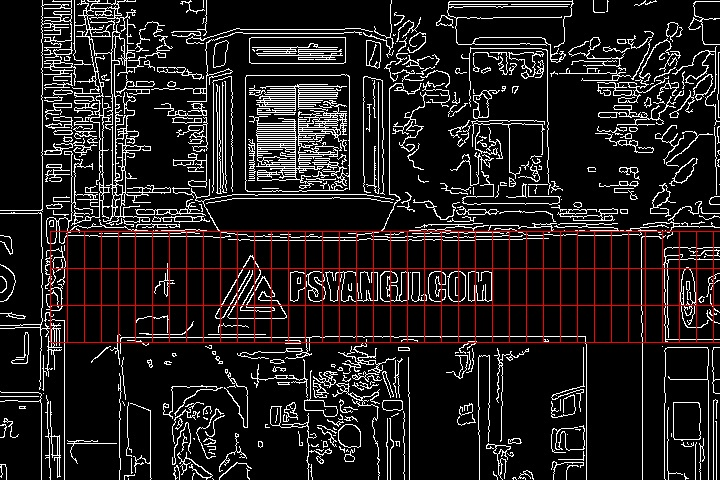
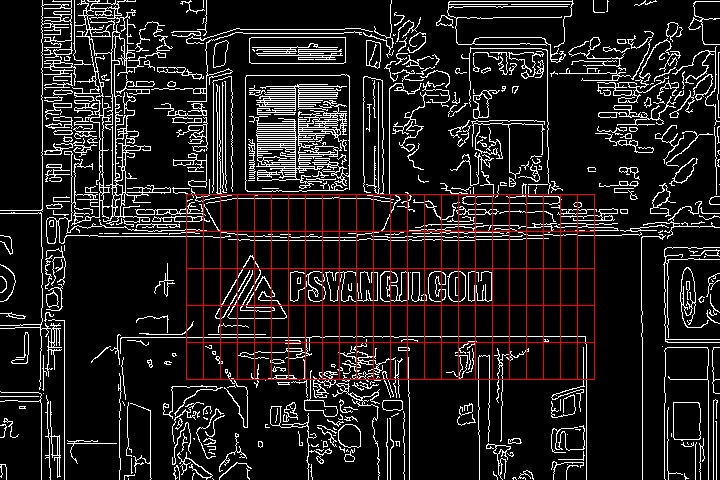
add doc for ascii module

diff --git a/ocr/utils.py b/ocr/utils.py
@@ -28,15 +28,17 @@ def segment(image, text_box, text_len, max_grid=140):
     Tw = round((x_max-x_min)/text_len)
     # segment the image into patches starting from text box
     ratio = (np.sqrt(max_grid/text_len)-1)/2
-    hor = int(text_len*ratio) # of grids expanded horizontally
-    ver = int(ratio) # of grids expanded vertically
-    return Tw, Th, hor, ver
+    # hor = int(text_len*ratio) # of grids expanded horizontally
+    # ver = int(ratio) # of grids expanded vertically
+    Rw = 2*text_len
+    Rh = 5
+    return Tw, Th, Rw, Rh
 
-def draw_patch(image, x0, y0, Tw, Th, text_len, hor, ver):
+def draw_patch(image, x0, y0, Tw, Th, Rw, Rh):
     image = np.asarray(image)
     image = cv.cvtColor(image, cv.COLOR_BGR2RGB)
-    for i in range(2*hor+text_len):
-        for j in range(2*ver+1):
+    for i in range(Rw):
+        for j in range(Rh):
             start_point = (x0+i*Tw, y0+j*Th)
             end_point = (x0+(i+1)*Tw, y0+(j+1)*Th)
             image = cv.rectangle(image, start_point, end_point, (0, 0, 255))

diff --git a/ocr/ocr.py b/ocr/ocr.py
@@ -37,17 +37,16 @@ roi.save('images/roi.jpg')
 box = boxes[0]
 text = txts[0]
 text_len = len(text)
-print(text_len)
+print("text len: ", text_len)
 
 image = cv.imread("images/canny.jpg")
 image = cv.cvtColor(image, cv.COLOR_BGR2GRAY)
 
-print(image)
-print(image.shape)
+# print(image)
+# print(image.shape)
 
-Tw, Th, hor, ver = segment(image, box, text_len) 
+Tw, Th, Rw, Rh = segment(image, box, text_len) 
 
 print("Tw: %d, Th: %d" % (Tw, Th))
 
-draw_patch(image, int(box[0][0]-hor*Tw), int(box[0][1]-ver*Th), Tw, Th, text_len, hor, ver)
-
+draw_patch(image, int(box[0][0]-(Rw-text_len)//2*Tw), int(box[0][1]-(Rh-1)//2*Th), Tw, Th, Rw, Rh)

diff --git a/ascii/README.md b/ascii/README.md
@@ -1,23 +1,97 @@
 # ASCII Matching Module
 
-Structure based ASCII art
+Structure based ASCII art. This module includes the following sub functions : rasterize printable ASCII characters, segmente the original image to small patches and match each patch with its most similar character, which depend on the criterion of similarity. 
+
+## Environment Requirement
+
+* pillow
+* numpy
+* opencv
+
+Note: To get better visualization result, you may need to display the .txt content in a monospaced font.
+
+## Usage
+
+The code is implemented mainly in ascii.py. To use it, you need to set manually
+
+* Path of the image (structure map)
+* Text results extracted by OCR module
+* Size parameters
+
+## Result
+
+The original image is 
+
+![input](../edge_detection/images/input.jpg)
+
+Performing edge detection  via HED, we get the following structure map
+
+![hed](images/hed.jpg)
+
+The ASCII encoding of the whole image is, using the SAD criterion, as follows
+
+```
+  | F      ▕_ ,,, ,,, ▕   ╲      Γ      
+  ! L      ▕B| .   .┤∫@    2'  ▕Γ       
+  !         F∫│     []@    |┐   Γ       
+  │         F|│     |]H    q"  ▕L       
+  ]         L|│     []@    |_  j]       
+  │ L      ⌒Γ``"""""``▕M   M==∽%8      ,
+n ├W"""""""""^^     ^^"""""""""^"""""M"C
+@ ├@         ╭┘╲  PSYANGJI.COM       | ┴
+  ]Q     ―  ▕~──┴                    ╰ p
+  │▕  ▕E    ┴,―' ▕E╰┴┴―E┤ ▕@Γ' ′`▕'  ▕ P
+――┤▕  ▕@ ▕g>⌒Wy _▕△_ _H@╯  E   │╭={  ▕ `
+. │▕  ▕ш▕▕M   ]┌'' ▕⌒,▕@   "p ,│1―I  ▕ │
+```
+
+The text resolution is 12x40, yields 640.
+
+
+
+Furthermore, if we need to restrain the number of characters to 140, which is the limitation of a SMS. We should only look at the region of interest extended from the text box, i.e.
+
+![roi](images/roi.jpg)
+
+And we segment the image starting from the text region, visualized by the following figure. You may observe that almost each character is delimited by a rectangle box
+
+![patch](../ocr/images/canny_patch.jpg)
+
+By matching each patch (red rectangle box) with its best matching ASCII character, we can get the following result
+
+```
+_╲         ▕Γ___"_^^^Y__
+ ``,_              ``   
+  ╱'^,,PSYANGJI.COM     
+,╱""^"     ,__,,,,, ,,  
+ ′1   ▕E ′^eE┤ ▕U     ',
+```
+
+The text resolution is 5*24, yields 120.
+
+The result is not as appeling in contrast to the result of 640 resolution, mainly to blame the patch segmentation. Another approach is to perform high resolution matching, and do a sub sampling to extract the region of interest with in 140 character. The key is to identify the position of text and logo in the ASCII encoding. 
 
 ## TODO
 
 * ASCII gylph preprocessing
 
-  Rasterizing ASCII characters
+  ~~Rasterizing ASCII characters~~
+
+  Optimization
 
 * Image block segmentation
 
-  Dividing  image to blocks based on the result of text detection by OCR module
+  ~~Dividing  image to blocks based on the result of text detection by OCR module~~
+
+  Optimization
 
 * Gylph matching
 
-  Such as SAD, NCC, HOG, distance transformation, etc
-
-
+  Such as ~~SAD~~, NCC, HOG, distance transformation, etc
 
 ## Reference
 
 1. Miyake K, Johan H, Nishita T. An interactive system for structure-based ASCII art creation[J]. Proc. NICOGRAPH Int, 2011: 4-3.
+2. Xu X, Zhang L, Wong T T. Structure-based ASCII art[M]//ACM SIGGRAPH 2010 papers. 2010: 1-10.
+3. https://github.com/MacLeek/ascii-art
+
